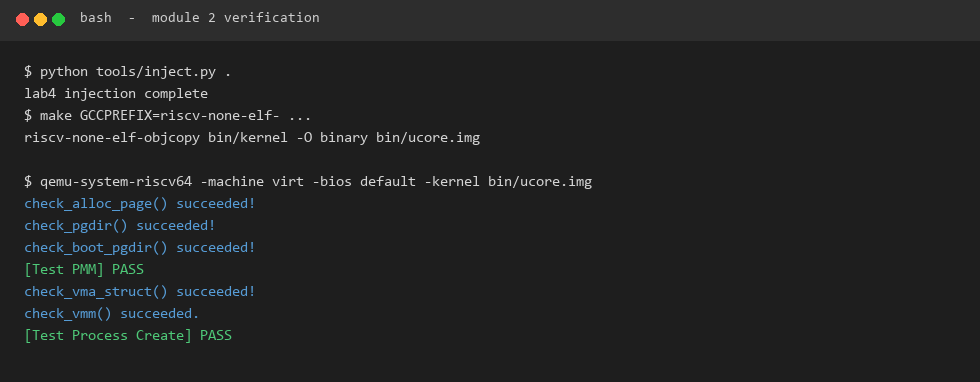
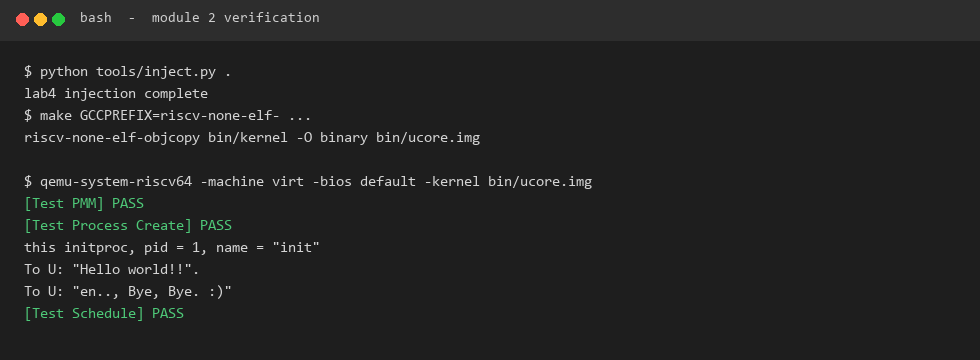
更新模块二测试截图与说明

diff --git a/report/report.md b/report/report.md
@@ -628,13 +628,13 @@ Total Score: 30/30
 
 ### 5.3 已保存的测试截图
 
-下图记录模块二阶段的 QEMU 输出，包含 PMM 和进程创建测试：
+下图记录模块二与模块三合并后的 QEMU 输出，包含 PMM、进程创建和调度三项测试：
 
-![模块二阶段 QEMU 输出](./images/lab4_qemu.png)
+![QEMU 输出](./images/lab4_qemu.png)
 
-下图记录模块二阶段的测试输出：
+下图汇总注入测试的验证结果：
 
-![模块二阶段测试输出](./images/lab4_grade.png)
+![测试输出](./images/lab4_grade.png)
 
 ---
 
